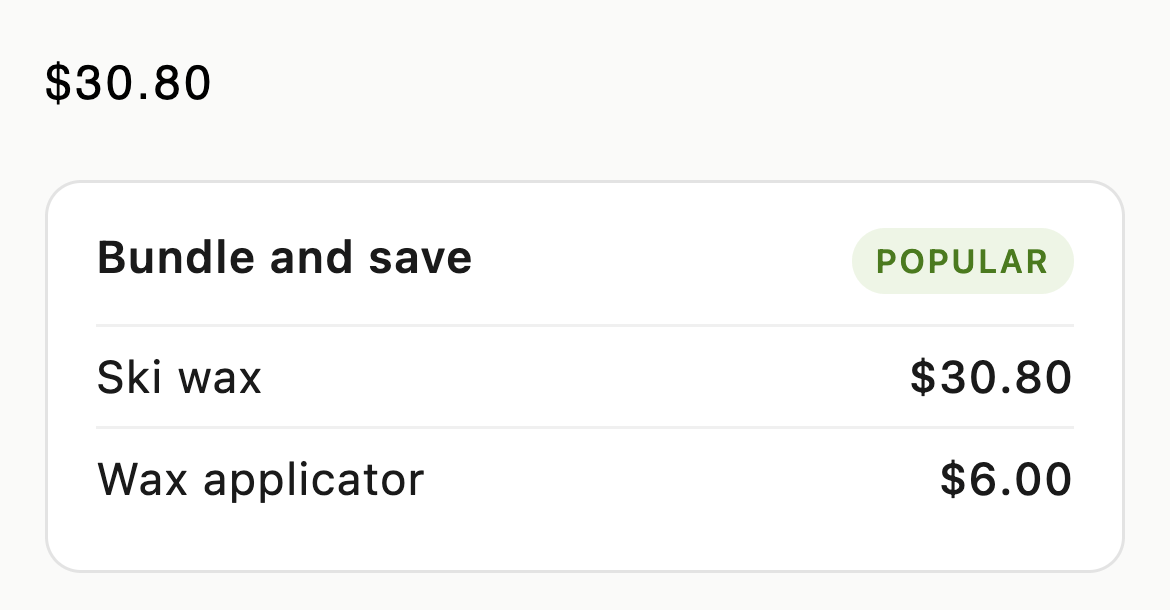
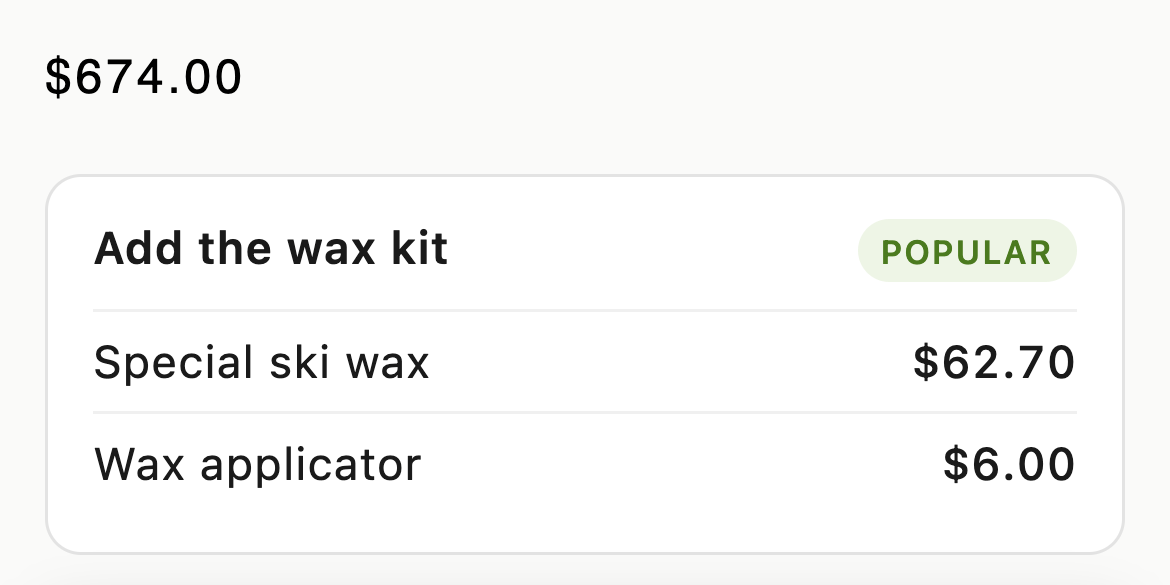
docs: shorter mobile screenshots on a single-variant product page

diff --git a/browser-api/README.md b/browser-api/README.md
@@ -4,7 +4,7 @@ Theme JavaScript that reads `window.ABConvert`, the object ABConvert publishes o
 
 `window.ABConvert` tells your code which test groups the visitor is in, and the price, shipping rates, and offer that visitor gets. It is read-only: to create or manage tests, use the [public API](../public-api/). The contract lives in the [Browser API reference](https://docs.abconvert.io/api-reference/browser-api). The examples here show how to use it.
 
-<img src="storefront-overview.png" width="390" alt="A mobile product page with the three render examples: a free shipping bar with a progress track pinned to the top, a bundle card under the product's price, and an offer card fixed to the bottom">
+<img src="storefront-overview.png" width="390" alt="A mobile product page with the three render examples: a free shipping bar with a progress track pinned above the header, a bundle card under the product price, and an offer card fixed to the bottom">
 
 ## Start here
 

diff --git a/browser-api/examples/custom-price/README.md b/browser-api/examples/custom-price/README.md
@@ -6,7 +6,7 @@ Script: [`custom-price.js`](custom-price.js)
 
 ABConvert rewrites the price elements your theme renders on product, collection, and cart pages. A promo block, a bundle builder, a quick-view card, or a collection card you render yourself can fall outside that. This script covers those.
 
-<img src="screenshot.png" width="390" alt="Product page detail: the theme's price reads $30.80, and a card below it titled Bundle and save lists Ski wax $30.80 and Wax applicator $6.00">
+<img src="screenshot.png" width="390" alt="Product page detail: a card titled Add the wax kit lists Special ski wax $62.70 and Wax applicator $6.00">
 
 ## Markup
 

diff --git a/browser-api/examples/free-shipping-bar/README.md b/browser-api/examples/free-shipping-bar/README.md
@@ -4,7 +4,7 @@
 
 Script: [`free-shipping-bar.js`](free-shipping-bar.js)
 
-<img src="screenshot.png" width="390" alt="A pale green bar across the top of a mobile storefront reading Spend $49.20 more for free shipping, with a progress track under it">
+<img src="screenshot.png" width="390" alt="A pale green bar above a mobile storefront header reading Spend $51.00 more for free shipping, with a progress track under it">
 
 ## Markup
 
